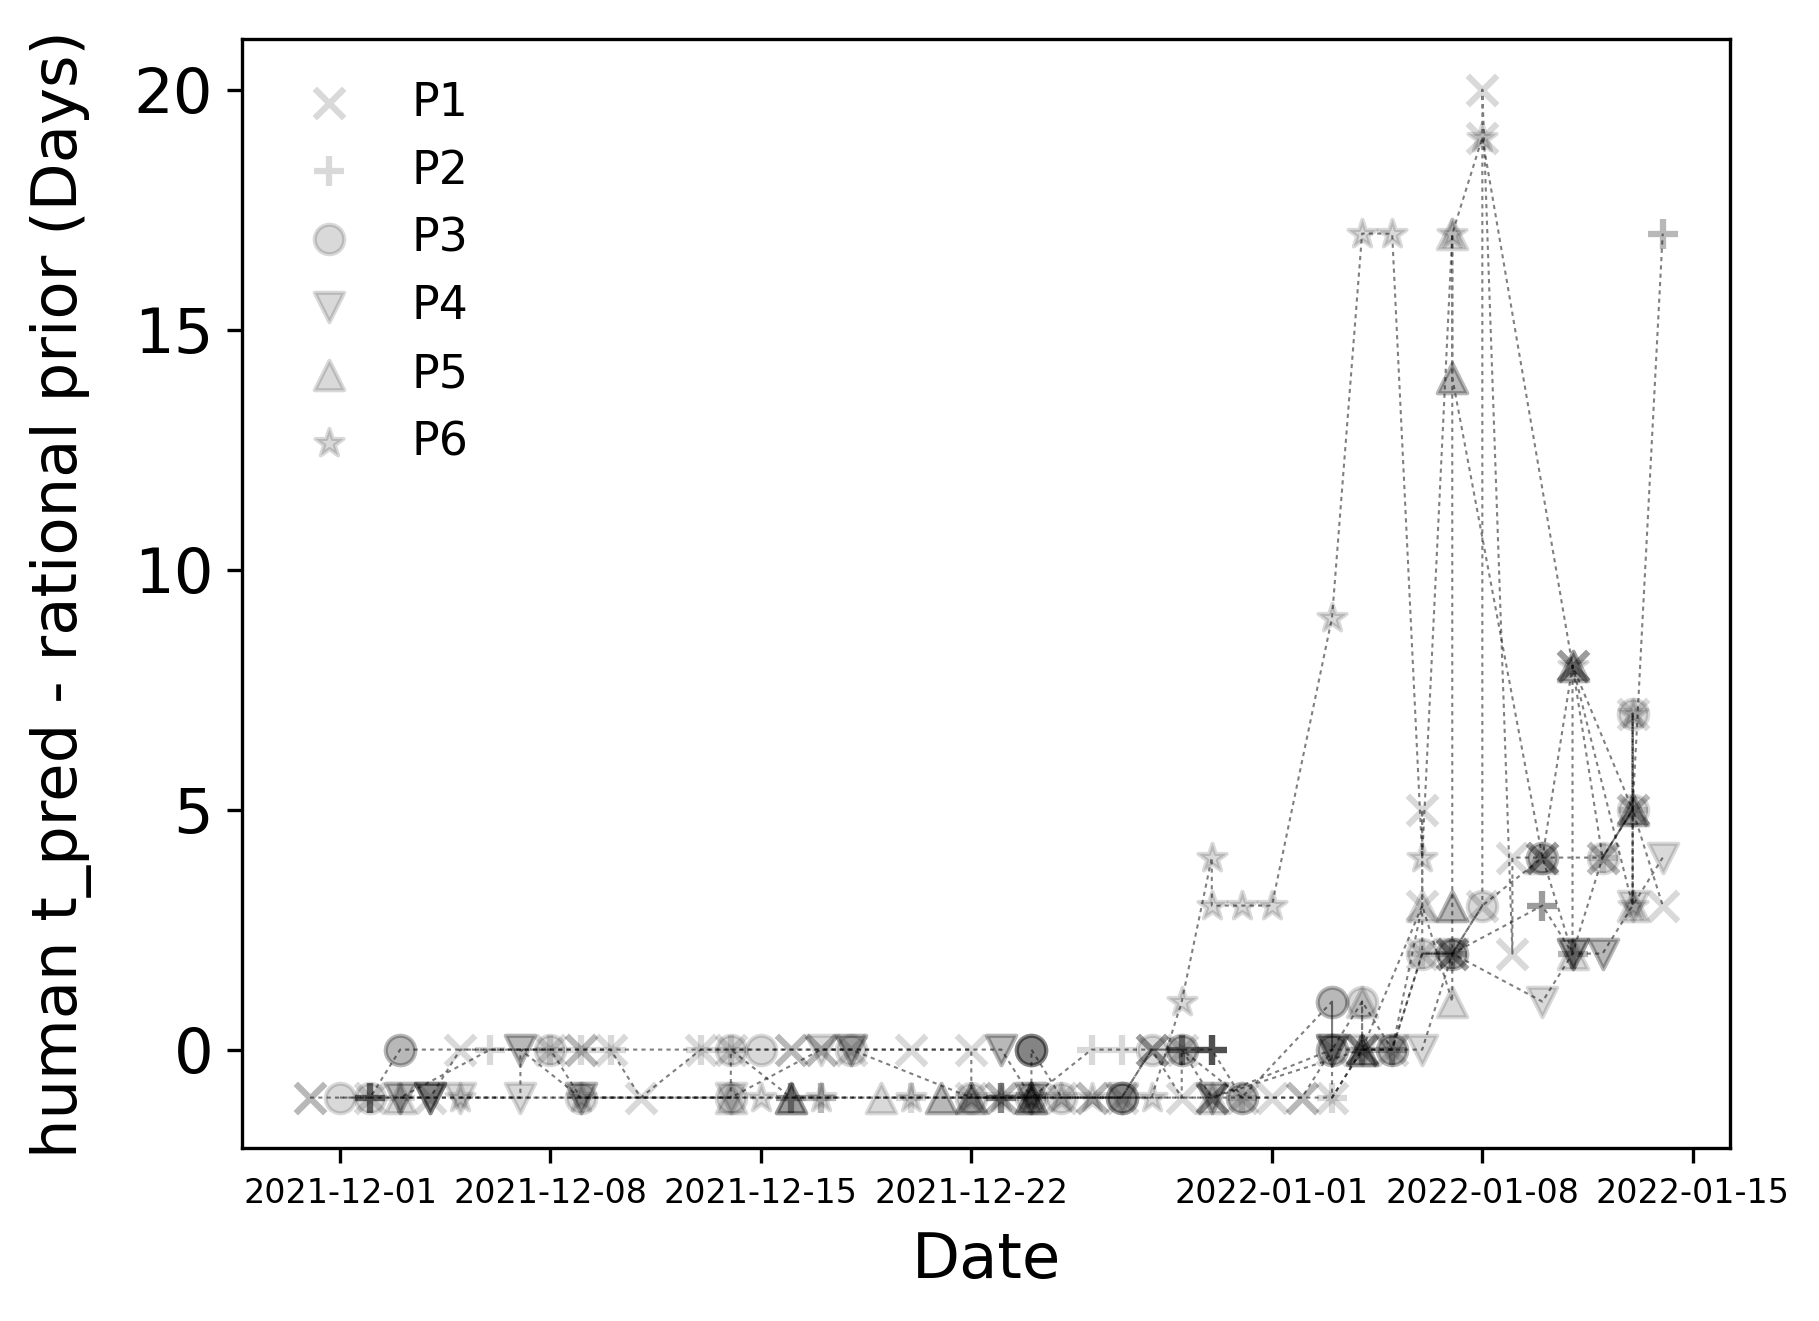
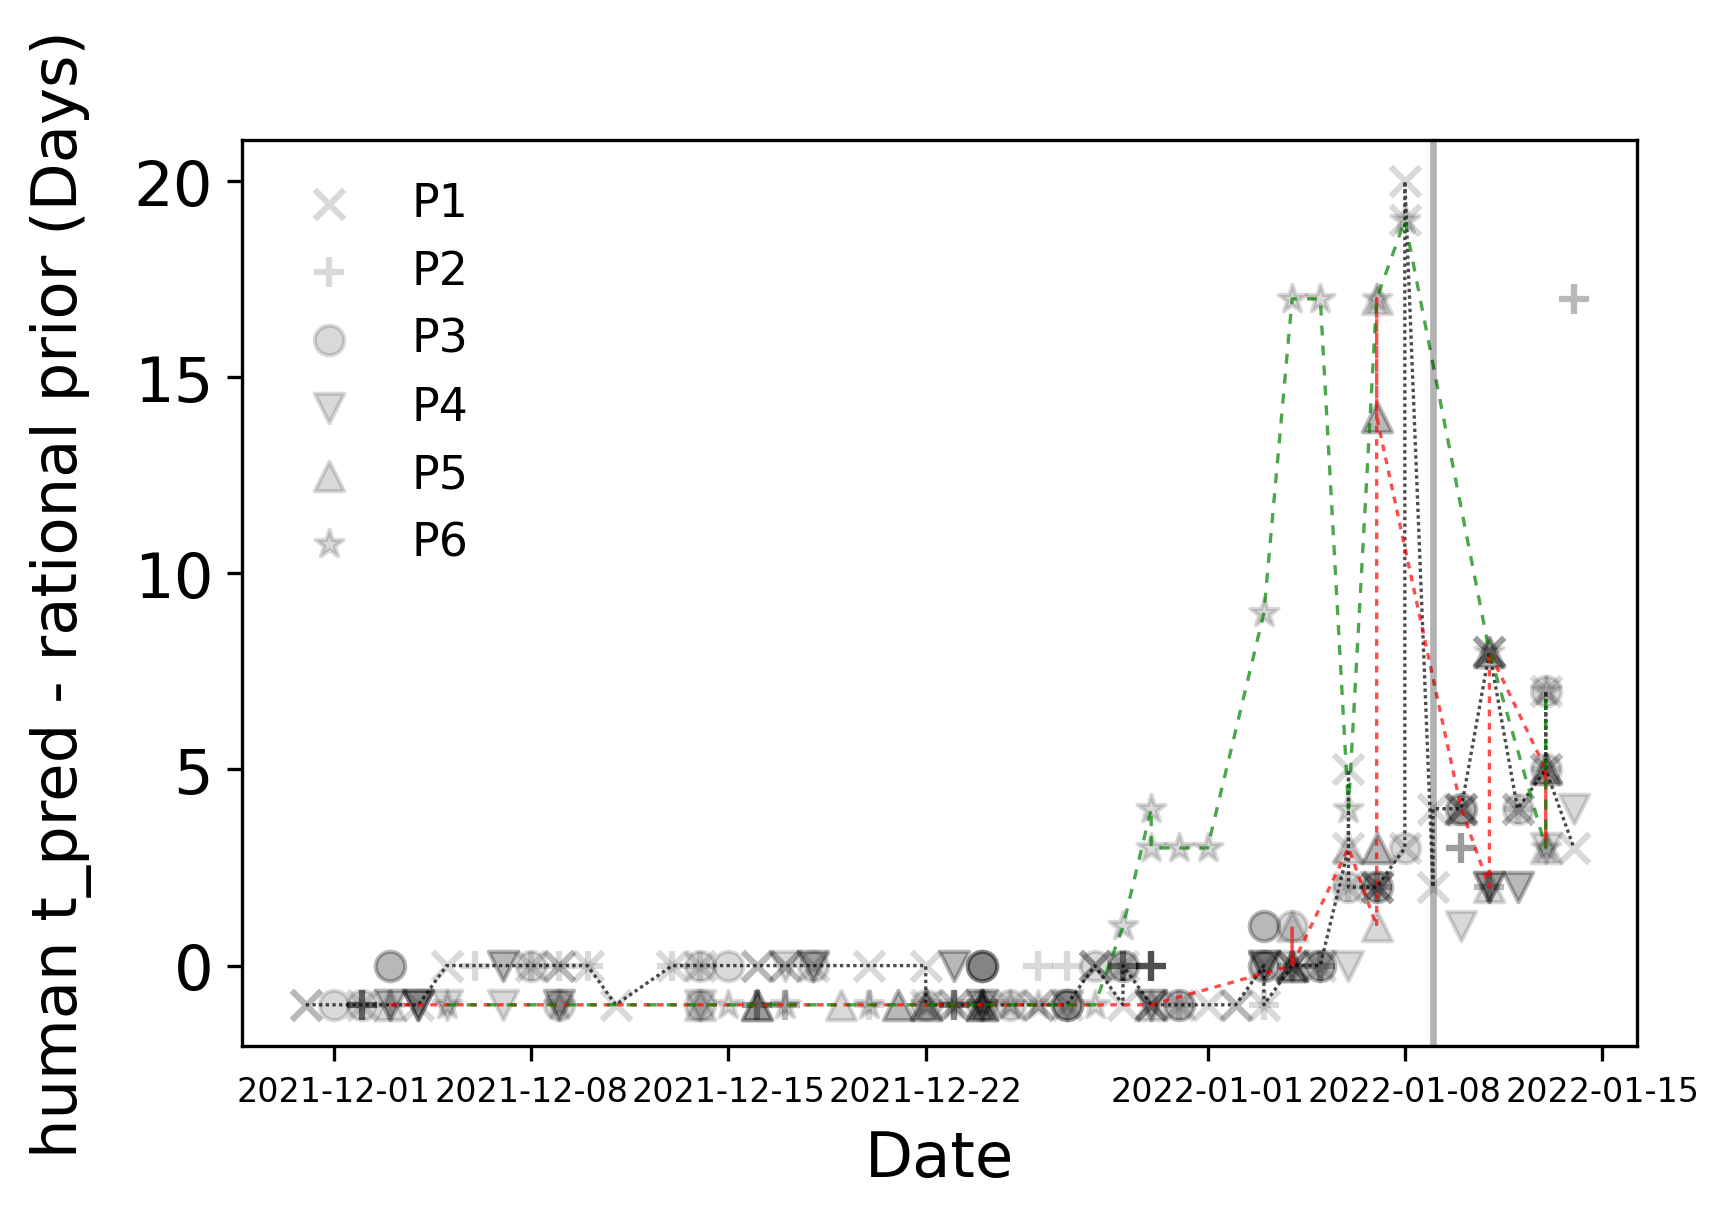
std

diff --git a/simulations/Highest/.ipynb_checkpoints/analysis-checkpoint.py b/simulations/Highest/.ipynb_checkpoints/analysis-checkpoint.py
@@ -94,7 +94,7 @@ ax.scatter(gt_S.index,gt_S,color='black',label='ground truth horizon',marker='p'
 #ax.axhline(y=42,c='black',dashes=(2,2,2,2),linewidth=1,alpha=0.2)
 ax.axhline(y=0,c='black',dashes=(2,2,2,2),linewidth=1,alpha=0.3)
 ax.legend(bbox_to_anchor=(.90, .95), loc=1, frameon=False, fontsize=20)
-plt.savefig(f'Good_{gp_no}.png', dpi=300, transparent=False, bbox_inches='tight')
+#plt.savefig(f'Good_{gp_no}.png', dpi=300, transparent=False, bbox_inches='tight')
 plt.show()
 
 
@@ -161,7 +161,7 @@ axes[0,0].tick_params(axis='y', labelsize=15)
 
 plt.subplots_adjust(wspace=.2,hspace=0.3)
 
-plt.savefig(f'Study1_ExplanatoryScatter_All_S.png', dpi=300, transparent=False, bbox_inches='tight')
+#plt.savefig(f'Study1_ExplanatoryScatter_All_S.png', dpi=300, transparent=False, bbox_inches='tight')
 '''END ALL S PLOTTING'''
 
 
@@ -206,7 +206,7 @@ axes[0,0].set_ylabel('Days', labelpad=10,size=10)
 axes[1,0].set_ylabel('Days', labelpad=10,size=10)
 axes[2,0].set_ylabel('Days', labelpad=10,size=10)
 plt.subplots_adjust(wspace=.1,hspace=0.1)
-plt.savefig(f'Single_Subjects.png', dpi=300, transparent=False, bbox_inches='tight')
+#plt.savefig(f'Single_Subjects.png', dpi=300, transparent=False, bbox_inches='tight')
 
 
 '''SUMMARY OF PANELS OF INDIVIDUALS'''
@@ -223,8 +223,14 @@ for k in range(0,len(gp_ordering)):
     grouped = i.groupby(level=0)
     plt.scatter(i.index,i.hum_minus_prior,color='black',label='P' + str(k+1),marker=marker_list[k],s=50,alpha=0.15)
     #axes[k,j].plot(grouped.hum_minus_prior.mean().rolling(4).mean(),color='black')
-    plt.plot(i.hum_minus_prior,color='black',dashes=(2,2,2,2),alpha=.5,linewidth=0.5)
+    if (gp_counter+1 == 1):
+        plt.plot(i.hum_minus_prior,color='black',dashes=(1,1,1,1),alpha=.7,linewidth=0.8)
+    if (gp_counter+1 == 5):
+        plt.plot(i.hum_minus_prior,color='red',dashes=(2,2,2,2),alpha=.7,linewidth=0.8)
+    if (gp_counter+1 == 6):
+        plt.plot(i.hum_minus_prior,color='green',dashes=(3,3,3,3),alpha=.7,linewidth=0.8)
 
+plt.axvline(x=datetime.strptime('2022-01-09','%Y-%m-%d'),c='black',linewidth=1.6,alpha=0.3)
 plt.legend(frameon=False, fontsize=11)
 plt.xlabel('Date', labelpad=5,size=15)
 plt.tick_params(axis='x', labelsize=8)
@@ -250,7 +256,7 @@ plt.xlabel('human horizon (Days)', labelpad=5,size=15)
 plt.tick_params(axis='x', labelsize=15)
 plt.ylabel('human t_pred - rational prior (Days)', labelpad=10,size=15)
 plt.tick_params(axis='y', labelsize=15)
-plt.savefig('Single_Ss_Horiz_Summary.png',dpi=300,transparent=False, bbox_inches='tight')
+#plt.savefig('Single_Ss_Horiz_Summary.png',dpi=300,transparent=False, bbox_inches='tight')
 
 
 

diff --git a/simulations/Highest/analysis.py b/simulations/Highest/analysis.py
@@ -94,7 +94,7 @@ ax.scatter(gt_S.index,gt_S,color='black',label='ground truth horizon',marker='p'
 #ax.axhline(y=42,c='black',dashes=(2,2,2,2),linewidth=1,alpha=0.2)
 ax.axhline(y=0,c='black',dashes=(2,2,2,2),linewidth=1,alpha=0.3)
 ax.legend(bbox_to_anchor=(.90, .95), loc=1, frameon=False, fontsize=20)
-plt.savefig(f'Good_{gp_no}.png', dpi=300, transparent=False, bbox_inches='tight')
+#plt.savefig(f'Good_{gp_no}.png', dpi=300, transparent=False, bbox_inches='tight')
 plt.show()
 
 
@@ -161,7 +161,7 @@ axes[0,0].tick_params(axis='y', labelsize=15)
 
 plt.subplots_adjust(wspace=.2,hspace=0.3)
 
-plt.savefig(f'Study1_ExplanatoryScatter_All_S.png', dpi=300, transparent=False, bbox_inches='tight')
+#plt.savefig(f'Study1_ExplanatoryScatter_All_S.png', dpi=300, transparent=False, bbox_inches='tight')
 '''END ALL S PLOTTING'''
 
 
@@ -206,7 +206,7 @@ axes[0,0].set_ylabel('Days', labelpad=10,size=10)
 axes[1,0].set_ylabel('Days', labelpad=10,size=10)
 axes[2,0].set_ylabel('Days', labelpad=10,size=10)
 plt.subplots_adjust(wspace=.1,hspace=0.1)
-plt.savefig(f'Single_Subjects.png', dpi=300, transparent=False, bbox_inches='tight')
+#plt.savefig(f'Single_Subjects.png', dpi=300, transparent=False, bbox_inches='tight')
 
 
 '''SUMMARY OF PANELS OF INDIVIDUALS'''
@@ -223,8 +223,14 @@ for k in range(0,len(gp_ordering)):
     grouped = i.groupby(level=0)
     plt.scatter(i.index,i.hum_minus_prior,color='black',label='P' + str(k+1),marker=marker_list[k],s=50,alpha=0.15)
     #axes[k,j].plot(grouped.hum_minus_prior.mean().rolling(4).mean(),color='black')
-    plt.plot(i.hum_minus_prior,color='black',dashes=(2,2,2,2),alpha=.5,linewidth=0.5)
+    if (gp_counter+1 == 1):
+        plt.plot(i.hum_minus_prior,color='black',dashes=(1,1,1,1),alpha=.7,linewidth=0.8)
+    if (gp_counter+1 == 5):
+        plt.plot(i.hum_minus_prior,color='red',dashes=(2,2,2,2),alpha=.7,linewidth=0.8)
+    if (gp_counter+1 == 6):
+        plt.plot(i.hum_minus_prior,color='green',dashes=(3,3,3,3),alpha=.7,linewidth=0.8)
 
+plt.axvline(x=datetime.strptime('2022-01-09','%Y-%m-%d'),c='black',linewidth=1.6,alpha=0.3)
 plt.legend(frameon=False, fontsize=11)
 plt.xlabel('Date', labelpad=5,size=15)
 plt.tick_params(axis='x', labelsize=8)
@@ -250,7 +256,7 @@ plt.xlabel('human horizon (Days)', labelpad=5,size=15)
 plt.tick_params(axis='x', labelsize=15)
 plt.ylabel('human t_pred - rational prior (Days)', labelpad=10,size=15)
 plt.tick_params(axis='y', labelsize=15)
-plt.savefig('Single_Ss_Horiz_Summary.png',dpi=300,transparent=False, bbox_inches='tight')
+#plt.savefig('Single_Ss_Horiz_Summary.png',dpi=300,transparent=False, bbox_inches='tight')
 
 
 
